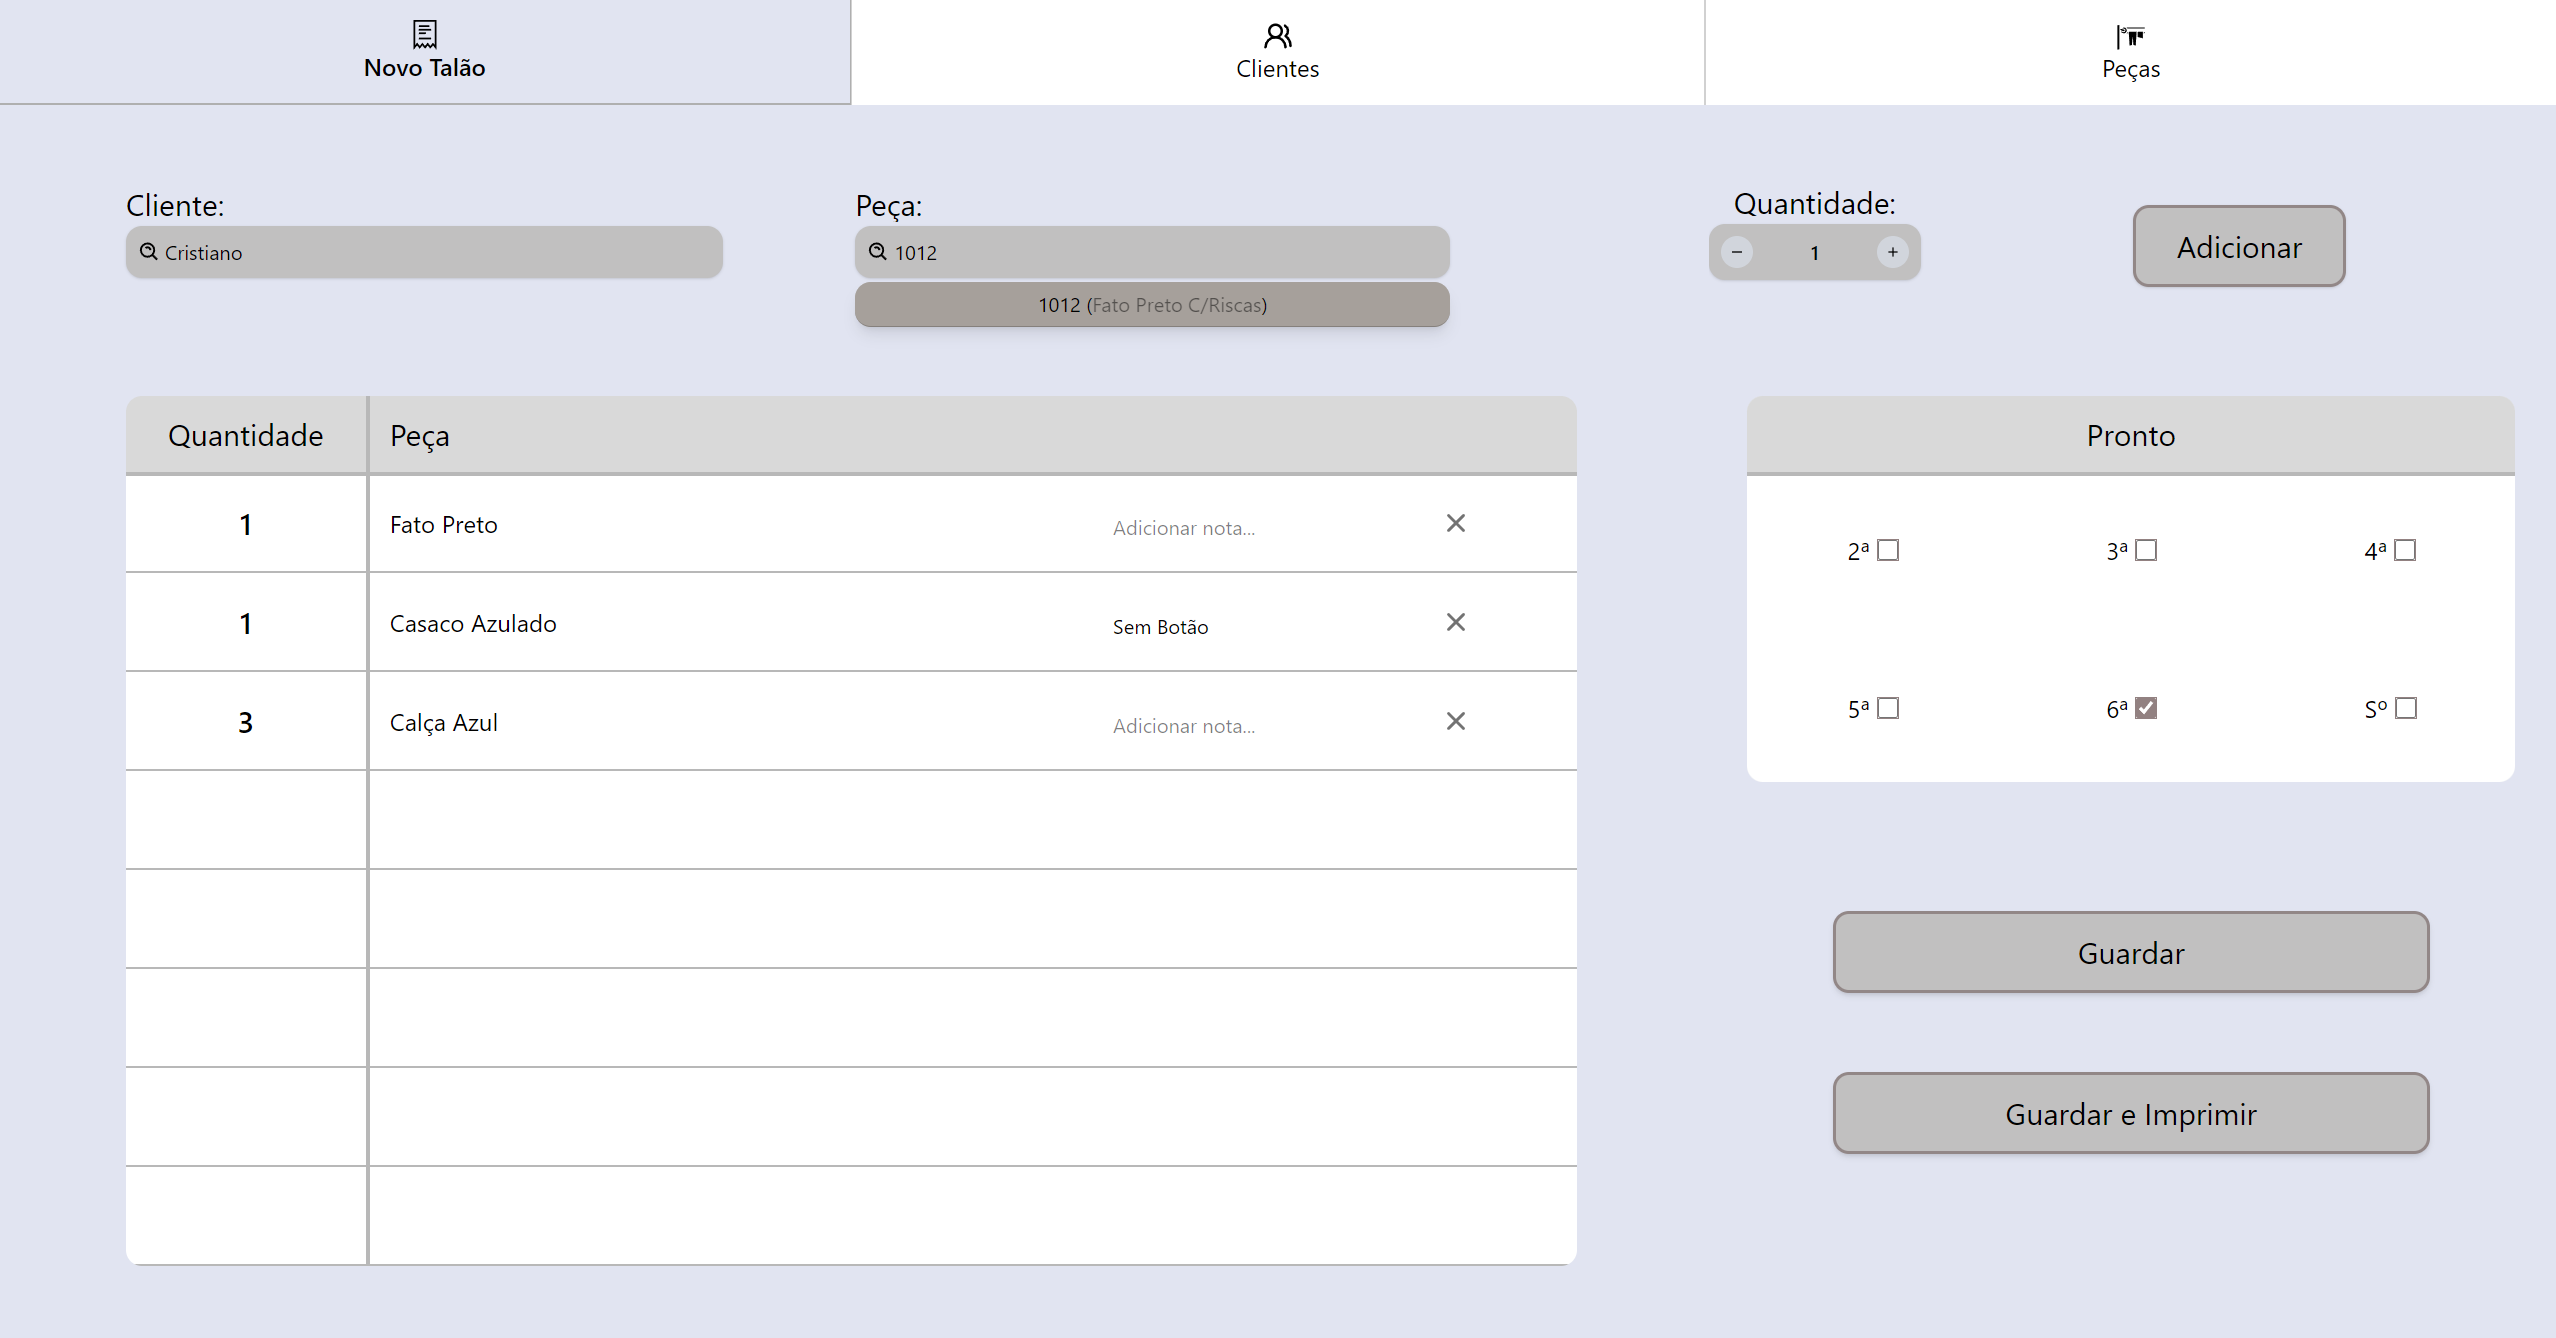
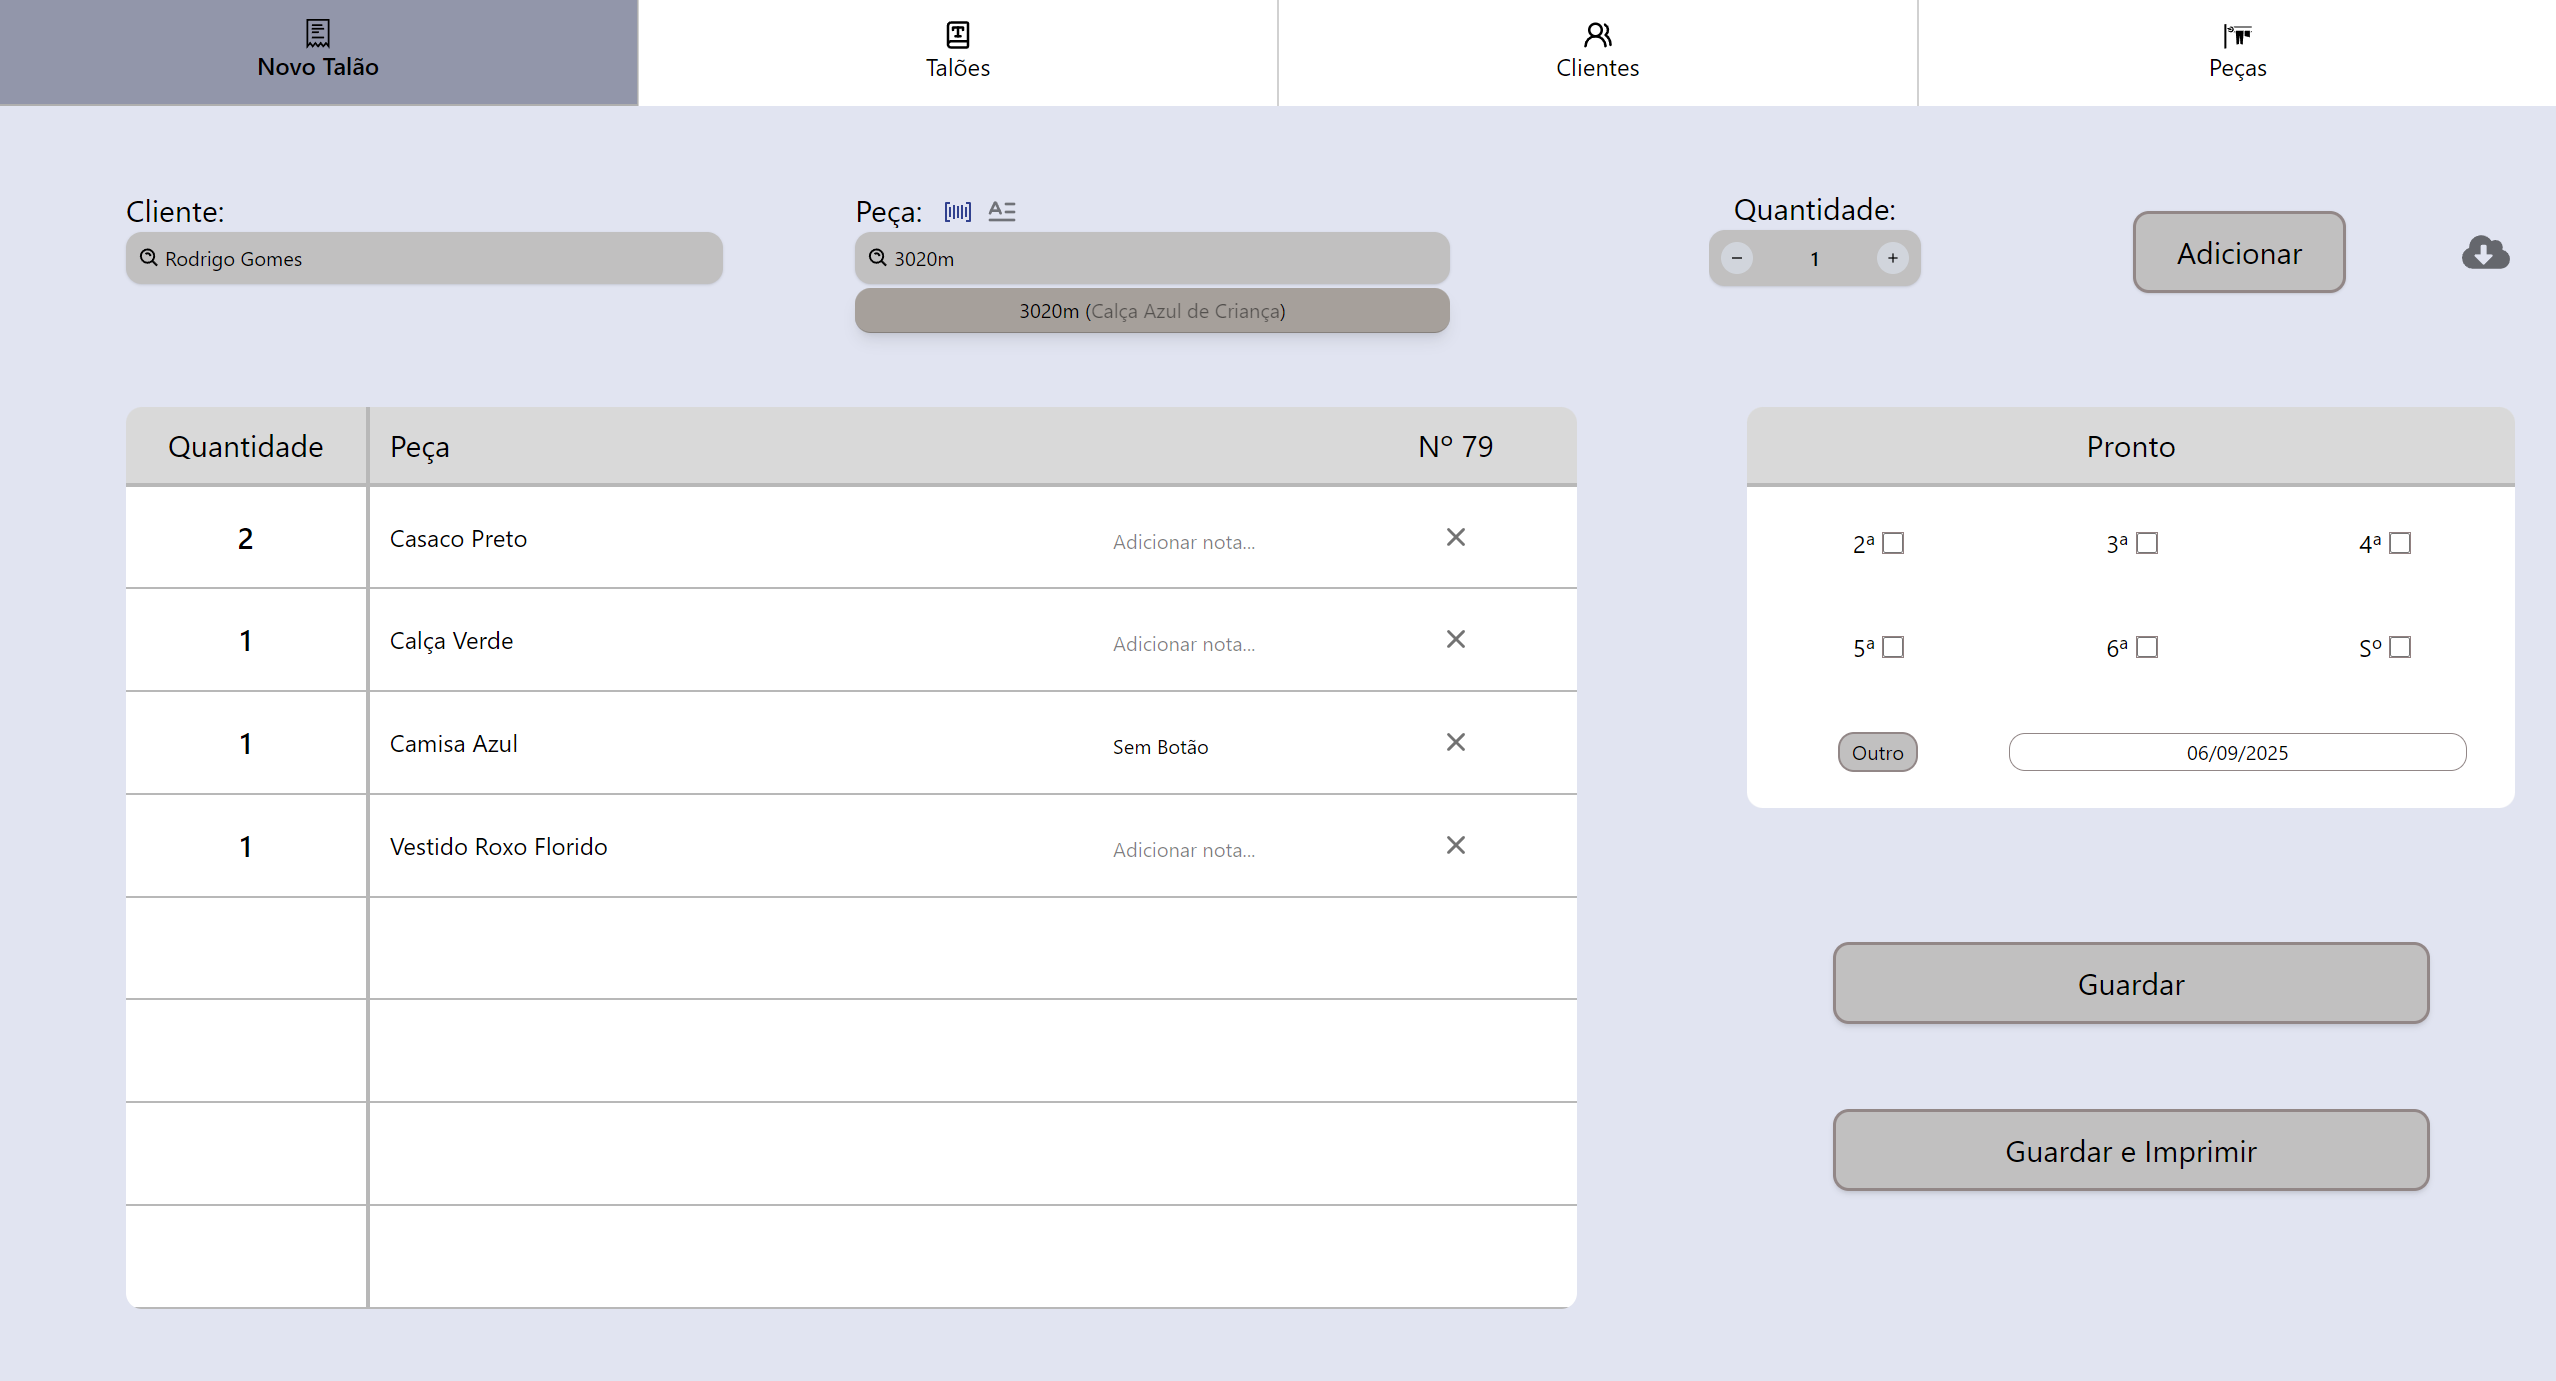
Update README.md

diff --git a/README.md b/README.md
@@ -10,27 +10,44 @@ WashWise is a desktop application for laundry management, built with Electron, R
 
 - Customer management (add, edit, delete)
 - Laundry item management
-- Create and edit service orders
+- Create and manage service orders
 - ESC/POS receipt printing
 - Local data storage with SQLite
-- 100% offline functionality
+- 100% offline functionality 
+- One-Click database backup
 
 
 ## Screenshots
 
-### New Order Screen (empty state)
+### New Order Tab (empty state)
 
 Initial screen to create a new order, search for customers and items, add products and define the ready-for-pickup day.
 
 ![New order empty](washwise-app/public/general.png)
 
-### New Order Screen (with items added)
+### New Order Tab (with items added)
 
 Displays customer and item selection, quantity, optional notes per item, and pick-up day selection. The "Save and Print" button generates and prints the receipt automatically.
 
 ![Order filled](washwise-app/public/filled.png)
 
-## How to run
+### Client Management Tab
+
+Displays customer management with search and filter functionality. The table lists registered customers, while the side panel allows creating or editing customer records with name, phone number, and address details.
+
+![Clients](washwise-app/public/clients.png)
+
+![Clients_filled](washwise-app/public/clients_filled.png)
+
+### Product Management Tab
+
+Displays item management with search and filter functionality. The table lists existing items, while the side panel allows creating or editing entries with reference, type, color, style, and value.
+
+![Products](washwise-app/public/products.png)
+
+![Products_filled](washwise-app/public/products_filled.png)
+
+## How to run (for development)
 
 1. Clone the repository:
 ```bash
@@ -54,9 +71,17 @@ npm run electron
 ```
 <br/>
 
+## How to install (for Windows)
+
+Download and execute the installer.
+
+ [![Download](https://img.shields.io/badge/download-installer-green)](https://github.com/RodG23/WashWise/WashWise_Setup.exe)
+
+
 ---
 
 WashWise is designed to simplify and streamline laundry business operations.
 
-![Status](https://img.shields.io/badge/status-in%20development-yellow)
+![Status](https://img.shields.io/badge/status-Complete-brightgreen)
+
 
